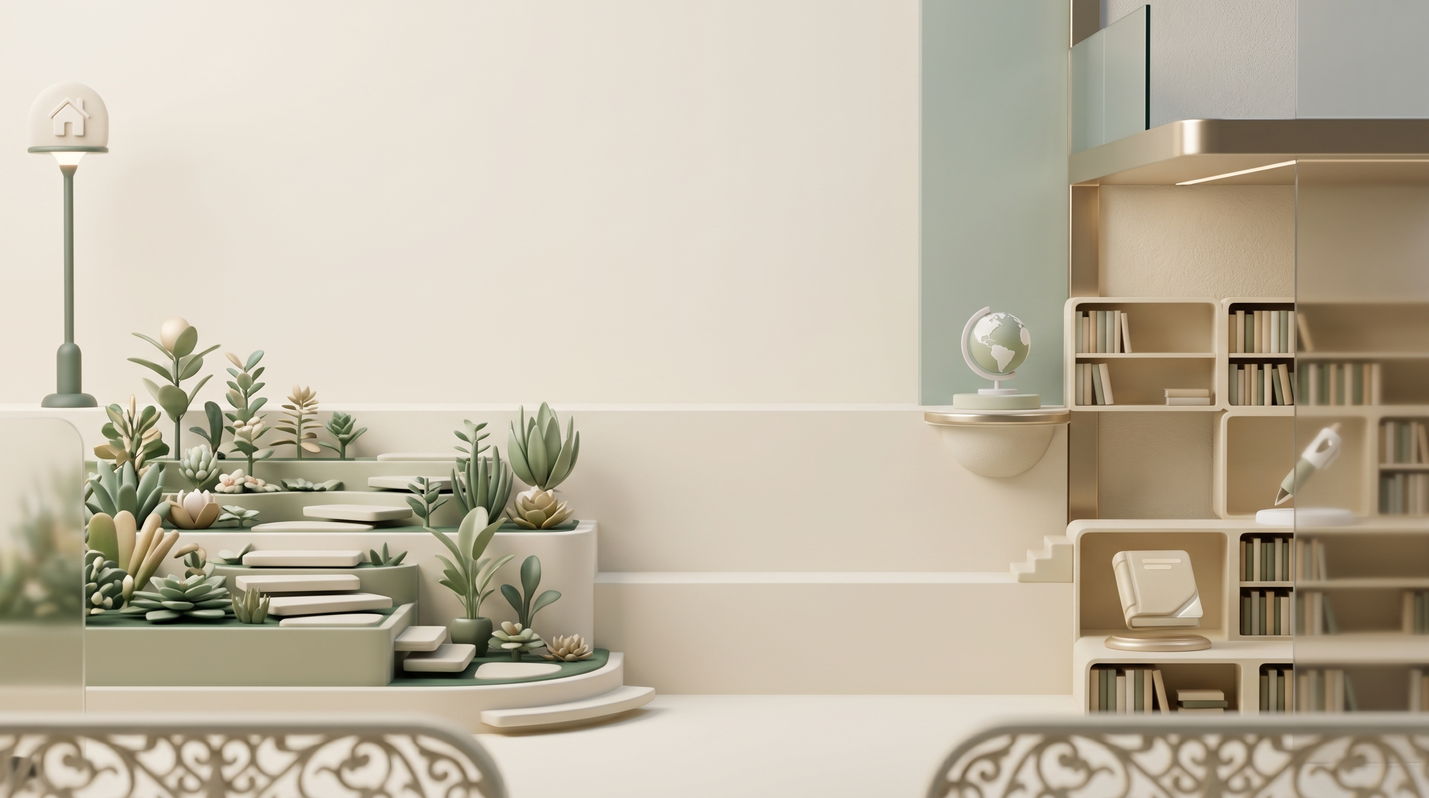
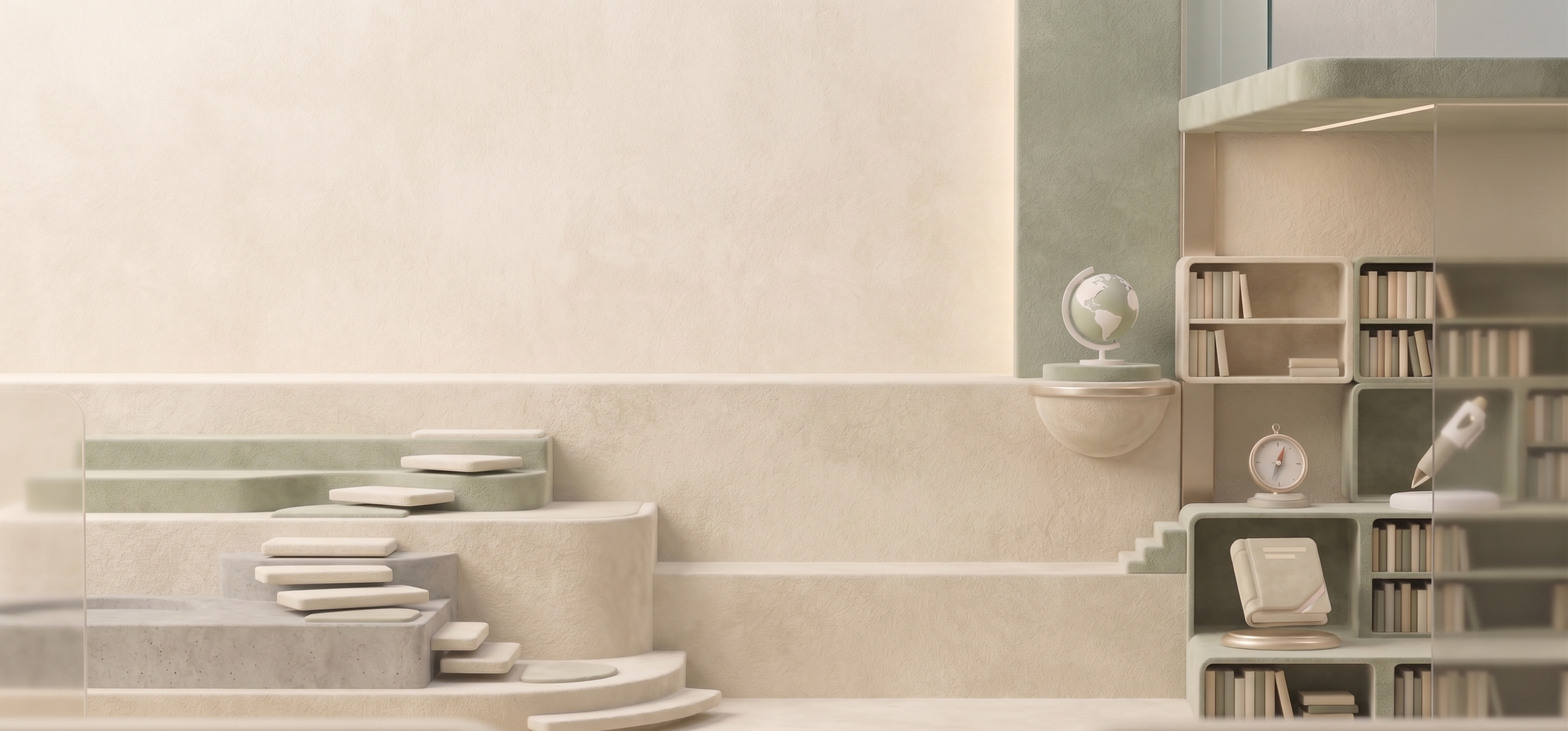
Replace vocabulary classroom background

diff --git a/learning/basics/vocabulary/index.html b/learning/basics/vocabulary/index.html
@@ -5,7 +5,7 @@
     <meta name="viewport" content="width=device-width, initial-scale=1.0">
     <meta name="description" content="Learn all 3,000 words from Korea's official 2022 English curriculum">
     <title>English Words 3,000 · 15 Levels</title>
-    <link rel="stylesheet" href="styles.css?v=20260802h">
+    <link rel="stylesheet" href="styles.css?v=20260802i">
     <script src="vocabulary-core.js?v=20260802c" defer></script>
     <script src="app.js?v=20260802g" defer></script>
 </head>

diff --git a/learning/basics/vocabulary/styles.css b/learning/basics/vocabulary/styles.css
@@ -30,7 +30,7 @@ body {
     color: var(--ink);
     background:
         linear-gradient(rgba(248, 243, 232, .18), rgba(238, 229, 211, .24)),
-        url("assets/images/classroom-background.jpg") center / cover fixed no-repeat;
+        url("assets/images/classroom-background.jpg?v=20260802b") center / cover fixed no-repeat;
     font-family: "Malgun Gothic", "Apple SD Gothic Neo", sans-serif;
 }
 
